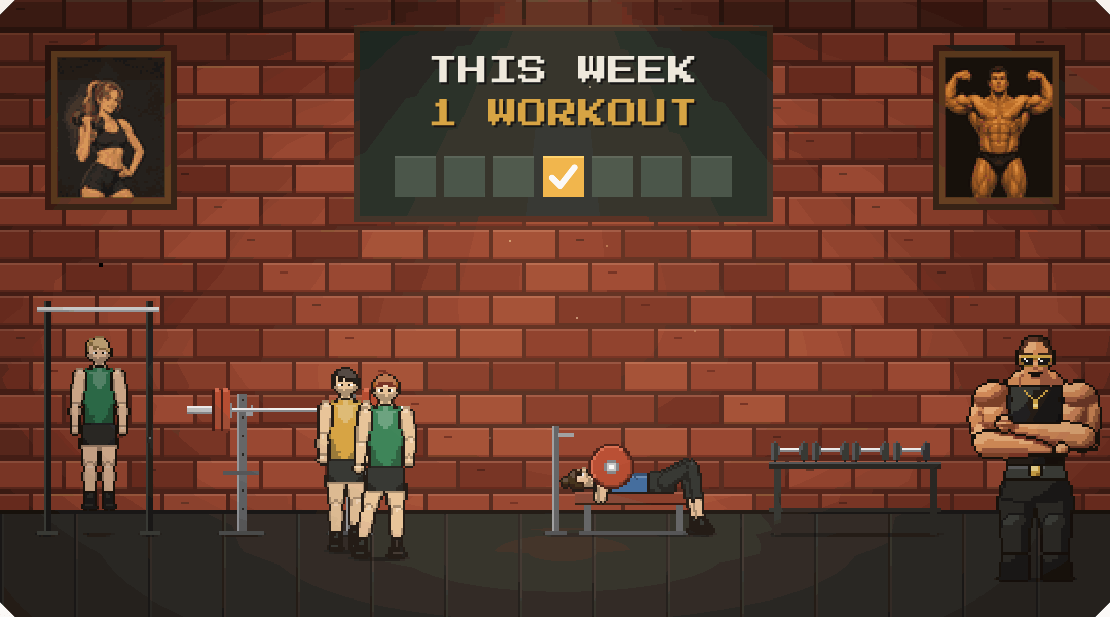
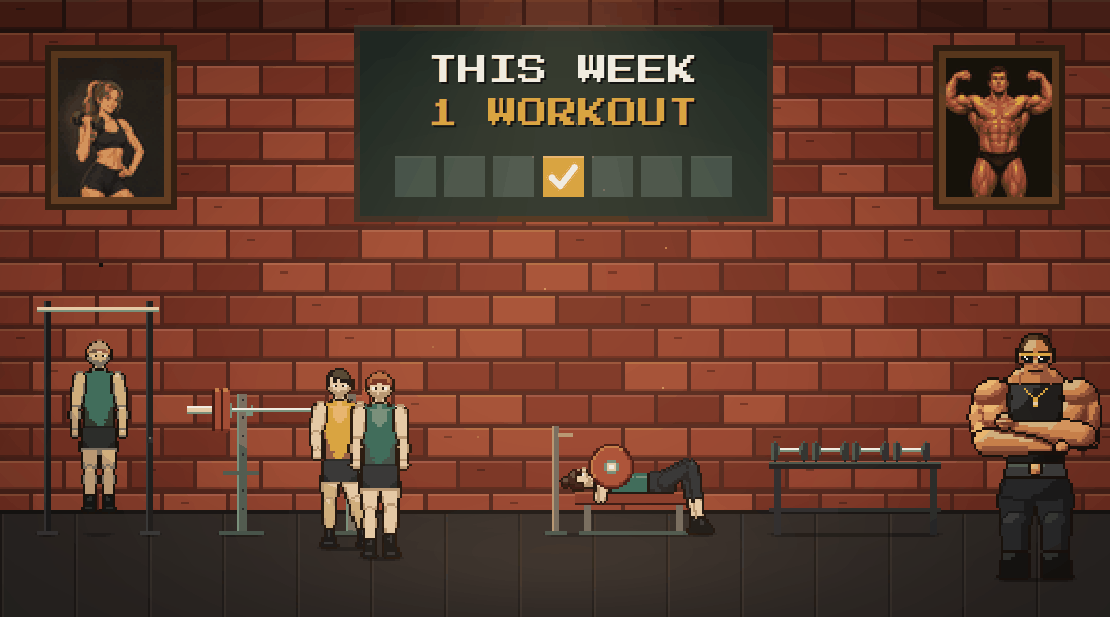
Подвал на сайте: постер — кадр 0 самой петли, без скачка на старте видео
scene-<язык>.png — больше не скриншот симулятора, а первый кадр петли той же
отрисовки (256 цветов): ru-скриншот показывал других людей, и на старте видео
сцена прыгала. Имена файлов те же — на них ссылаются только секция «Подвал»
(постер и кадр для «уменьшения движения») и тесты; эталонные скриншоты
остаются в iOS-репо, с ними сверяет --preview. Скрипт теперь пишет постер сам.

Claude-Session: https://claude.ai/code/session_01JSDwqkmB5LAgXawujnNj4s

diff --git a/scripts/render_basement_loop.py b/scripts/render_basement_loop.py
@@ -56,7 +56,10 @@ Python. Скрипт офлайновый, руками: в бот не импо
         --preview /tmp/anim          # плюс GIF-превью, кадры и сверка со скриншотом
 
 Выход — media/site/gym/scene-<язык>.mp4 (H.264, yuv420p, без звука,
-faststart) и scene-<язык>.webm (VP9); постер — прежние scene-<язык>.png.
+faststart), scene-<язык>.webm (VP9) и постер scene-<язык>.png — кадр 0 той
+же петли (256 цветов), чтобы на старте видео ничего не прыгало; он же — кадр
+для «уменьшения движения». Скриншоты симулятора остаются эталоном в
+iOS-репо (docs/marketing/menu-gym/screens) — с ними сверяет `--preview`.
 ffmpeg — системный или из imageio_ffmpeg (`--ffmpeg` — свой путь).
 """
 
@@ -1627,6 +1630,12 @@ def _save_strip(frames: list, path: str):
 # ----------------------------------------------------------- видео
 
 
+def write_poster(img: Image.Image, path: str):
+    """Постер — кадр 0 петли; 256 цветов без дизеринга, как прежний скриншот."""
+    img.quantize(256, method=Image.Quantize.MEDIANCUT, dither=Image.Dither.NONE).save(path, optimize=True)
+    print(f"{path}: {os.path.getsize(path) // 1024} KB")
+
+
 def video_frame(img: Image.Image) -> Image.Image:
     """Кадр для yuv420p: высота чётная — нижняя строка повторена (617 → 618);
     на странице видео кадрируется в те же 1110×617 (`object-fit: cover`)."""
@@ -1695,6 +1704,7 @@ def main(argv=None):
                 if args.preview:
                     images.append(img)
             base = os.path.join(args.out, f"scene-{lang}")
+            write_poster(overlay.compose(canvases[0]), base + ".png")
             encode(ffmpeg, tmp, base, args.crf_mp4, args.crf_webm)
             for ext in ("mp4", "webm"):
                 print(f"{base}.{ext}: {os.path.getsize(base + '.' + ext) // 1024} KB")
